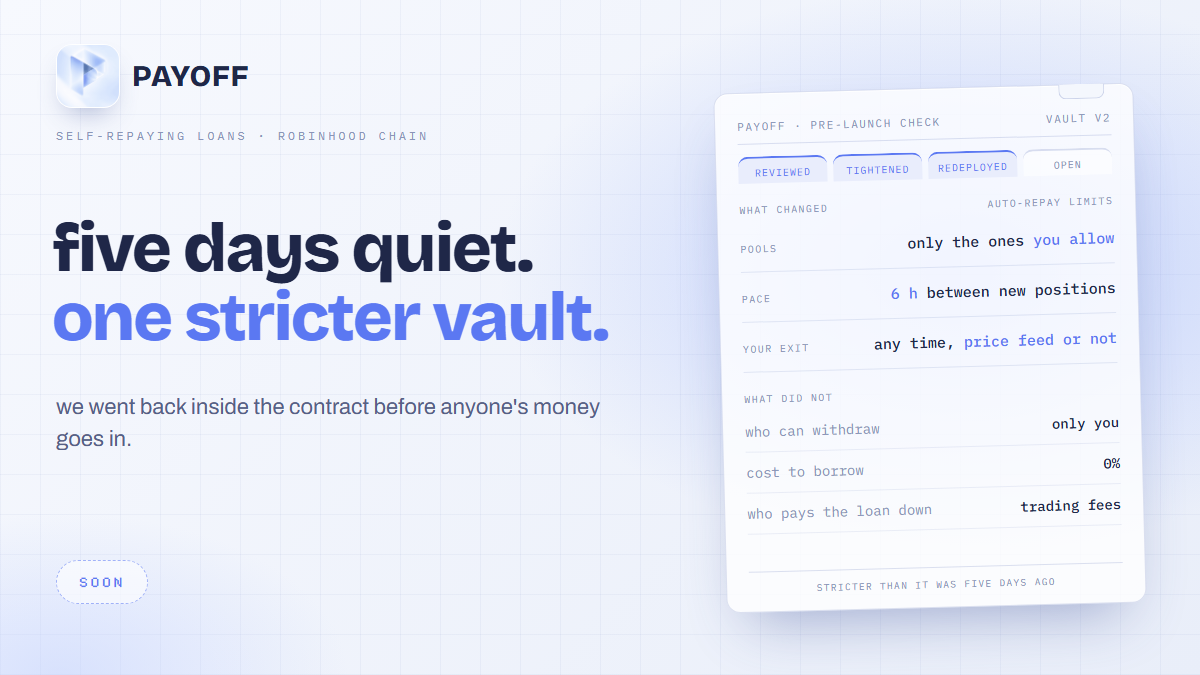
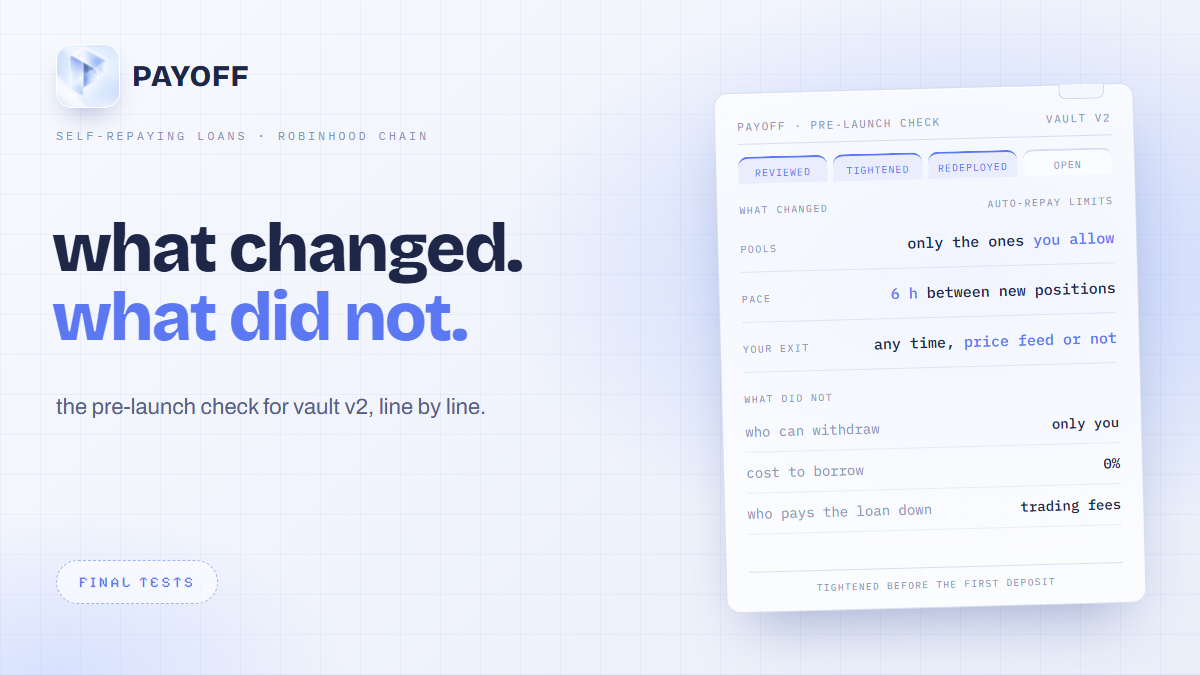
Update teaser: the image lists the changes instead of repeating the tweet

diff --git a/scripts/teaser-update.html b/scripts/teaser-update.html
@@ -43,9 +43,9 @@
 <body>
   <div class="brand"><img src="../public/mark.png" alt=""><b>PAYOFF</b></div>
   <div class="sub">SELF-REPAYING LOANS · ROBINHOOD CHAIN</div>
-  <h1 id="h1">five days quiet.<br><span>one stricter vault.</span></h1>
-  <p class="lede" id="lede">we went back inside the contract before anyone's money goes in.</p>
-  <div class="stamp" id="stamp">SOON</div>
+  <h1 id="h1">what changed.<br><span>what did not.</span></h1>
+  <p class="lede" id="lede">the pre-launch check for vault v2, line by line.</p>
+  <div class="stamp" id="stamp">FINAL TESTS</div>
 
   <div class="ticket">
     <div class="th"><span>PAYOFF · PRE-LAUNCH CHECK</span><span>VAULT V2</span></div>
@@ -62,7 +62,7 @@
       <div><span>cost to borrow</span><b>0%</b></div>
       <div><span>who pays the loan down</span><b>trading fees</b></div>
     </div>
-    <div class="tf">STRICTER THAN IT WAS FIVE DAYS AGO</div>
+    <div class="tf">TIGHTENED BEFORE THE FIRST DEPOSIT</div>
   </div>
   <script>
     // ?h1=…&lede=…&stamp=… override the words, same as teaser.html
